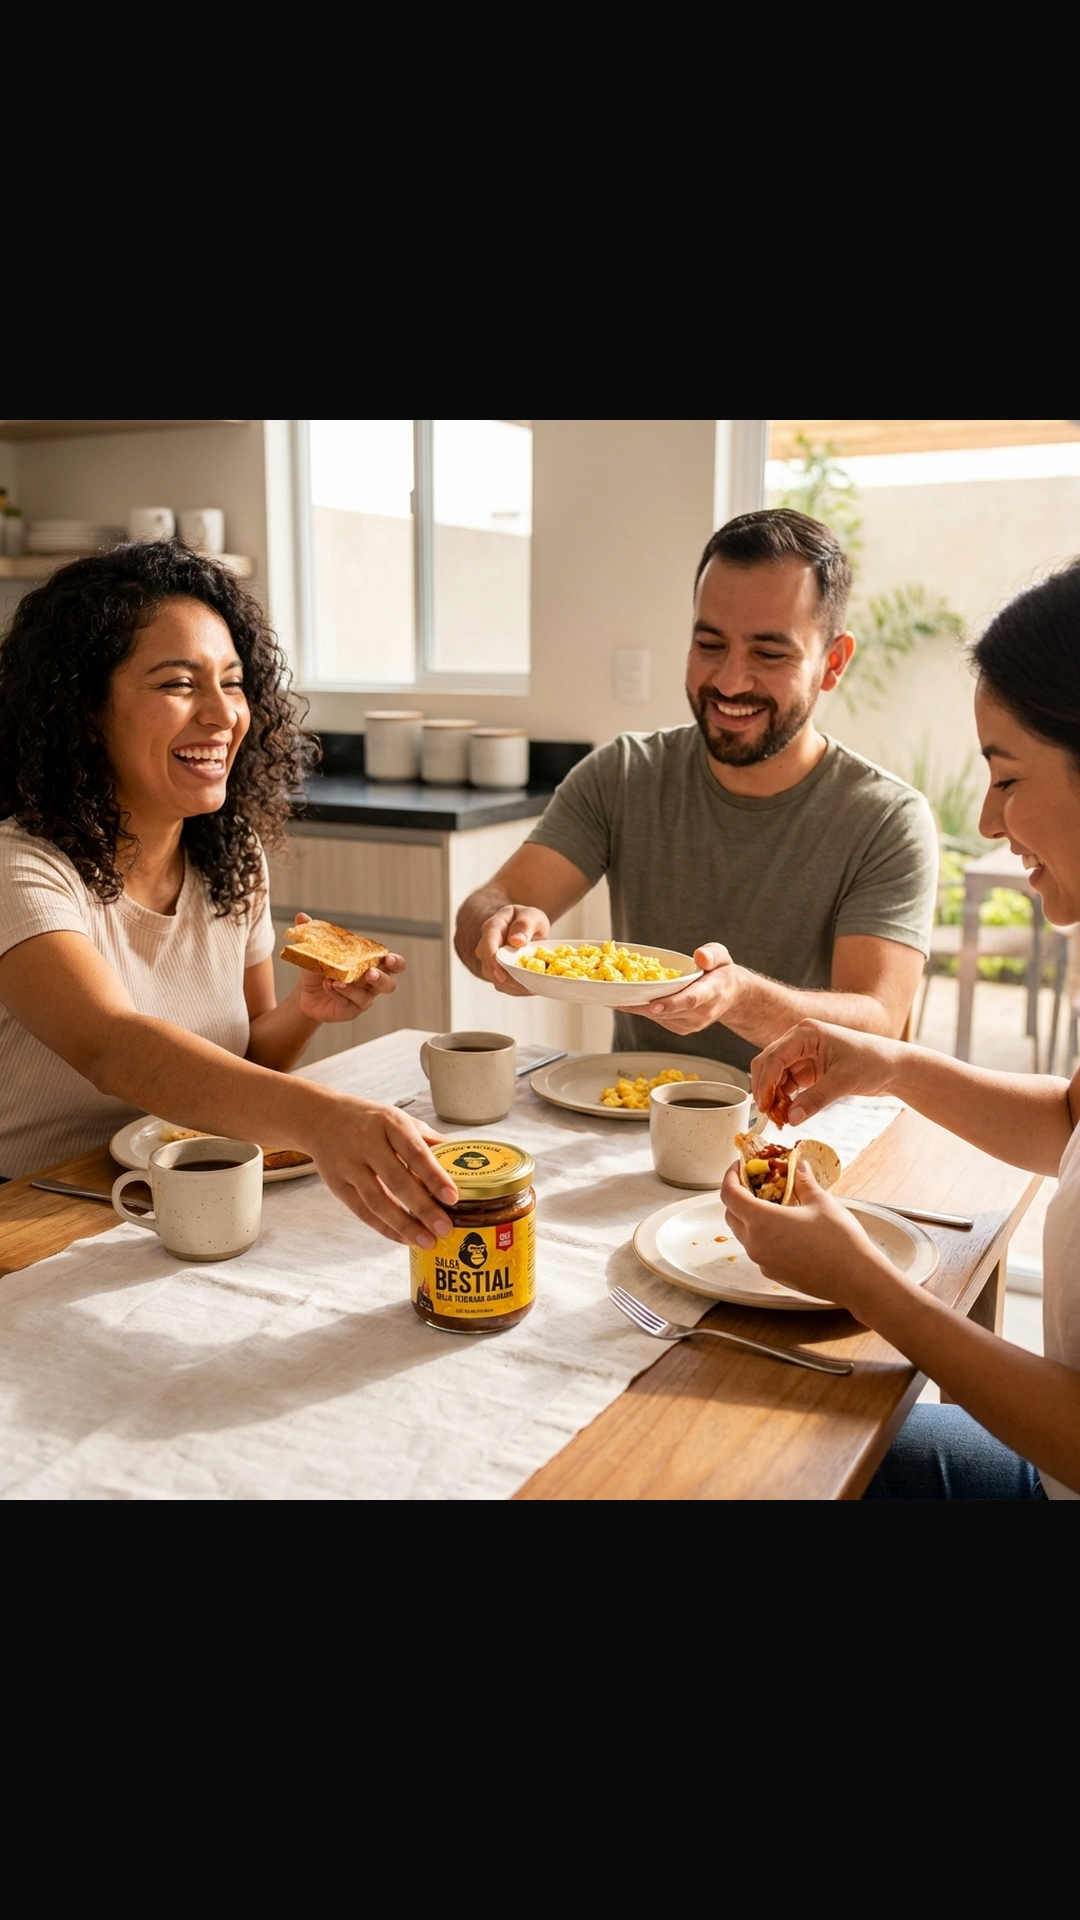
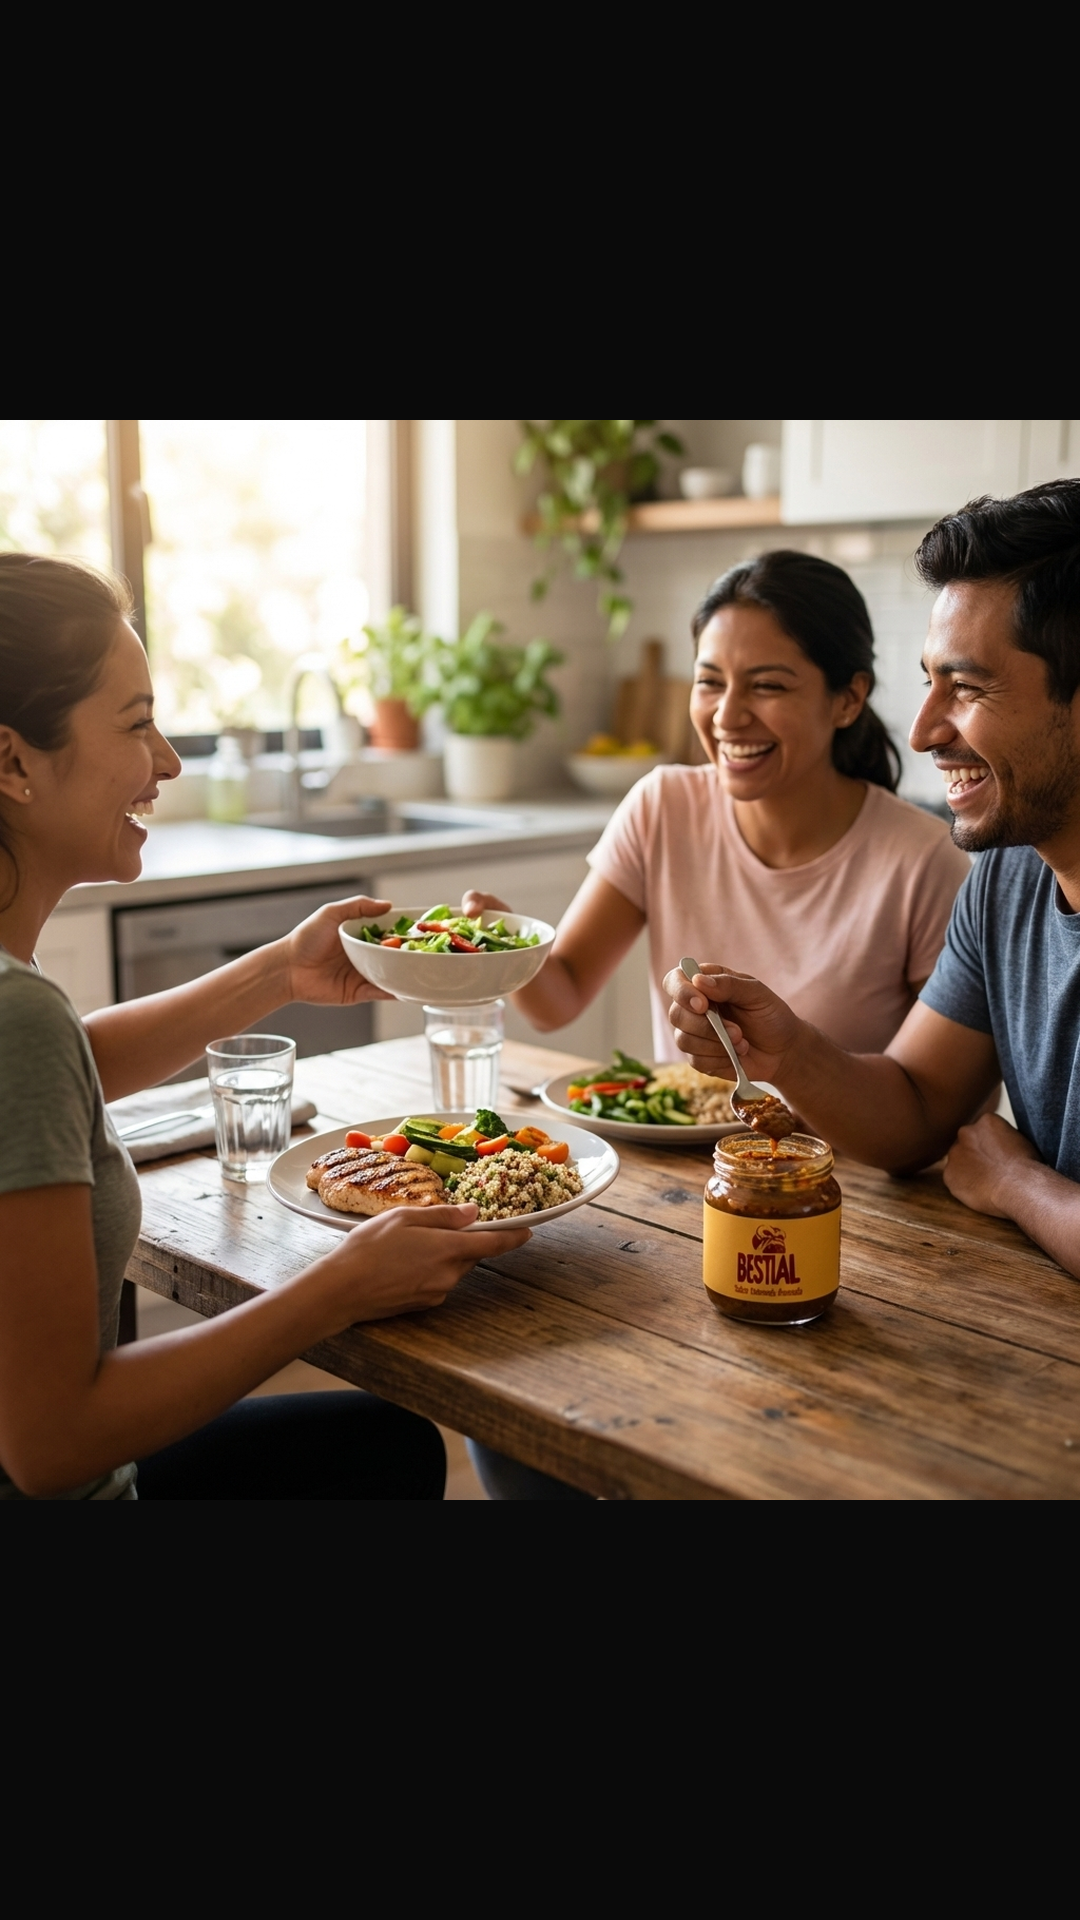
Imagenes correctas 20260409: Post entrenamiento / Healthy
Frasco auténtico generado con 3 referencias (Gemini+referencias).
Mesa: pollo grillado con bowl saludable.
Personas: 3 amigos compartiendo comida saludable en cocina.

diff --git a/Imagenes Instgram/bestial_20260409_mesa.md b/Imagenes Instgram/bestial_20260409_mesa.md
@@ -1,23 +1,21 @@
 # Imagen Instagram - 09/04/2026
 
-**Contexto:** Desayuno / Brunch
-**Contexto ID:** desayuno_brunch
+**Contexto:** Post entrenamiento / Healthy
+**Contexto ID:** post_entrenamiento
 
 ## Caption
 
-Un buen desayuno no necesita mucho... pero si necesita la salsa correcta.
+Comer saludable no tiene por que ser aburrido. Solo necesitas la salsa correcta.
 
-Nuestra Salsa Tatemada esta hecha artesanalmente con habaneros rostizados al fuego. Ese toque ahumado y profundo que convierte unos simples huevos en algo que no vas a olvidar en todo el dia.
+Nuestra Salsa Tatemada esta hecha artesanalmente con habaneros rostizados al fuego. Ese sabor ahumado y profundo que convierte tu bowl post entreno en algo que de verdad quieres repetir, sin culpa y con todo el sabor.
 
-Una vez que la pruebas en tu desayuno, cada mañana sin ella se siente incompleta 🔥
-
-Haz tu pedido ahora y transforma tu mesa desde temprano:
+Dale a tu comida sana el upgrade que merece. Haz tu pedido ahora 🔥
 
 ## Caption Story
 
-Tu desayuno merece sabor de verdad. Salsa Tatemada con habaneros al fuego 🔥
-Pedila ahora y empeza el dia BESTIAL.
+Tu comida fit merece sabor BESTIAL. Salsa Tatemada con habaneros al fuego.
+Pedila ahora 🔥
 
 ## Hashtags
 
-#brunch #desayuno #brunchtime #morningvibes #weekendbrunch #huevos #salsasbestial #salsatatemada #picante #bestial
+#postworkout #saludable #healthyfood #mealprep #fitness #comidasana #salsasbestial #salsatatemada #picante #bestial

diff --git a/Imagenes Instgram/bestial_20260409_personas.md b/Imagenes Instgram/bestial_20260409_personas.md
@@ -1,23 +1,21 @@
 # Imagen Instagram - 09/04/2026
 
-**Contexto:** Desayuno / Brunch
-**Contexto ID:** desayuno_brunch
+**Contexto:** Post entrenamiento / Healthy
+**Contexto ID:** post_entrenamiento
 
 ## Caption
 
-Un buen desayuno no necesita mucho... pero si necesita la salsa correcta.
+Comer saludable no tiene por que ser aburrido. Solo necesitas la salsa correcta.
 
-Nuestra Salsa Tatemada esta hecha artesanalmente con habaneros rostizados al fuego. Ese toque ahumado y profundo que convierte unos simples huevos en algo que no vas a olvidar en todo el dia.
+Nuestra Salsa Tatemada esta hecha artesanalmente con habaneros rostizados al fuego. Ese sabor ahumado y profundo que convierte tu bowl post entreno en algo que de verdad quieres repetir, sin culpa y con todo el sabor.
 
-Una vez que la pruebas en tu desayuno, cada mañana sin ella se siente incompleta 🔥
-
-Haz tu pedido ahora y transforma tu mesa desde temprano:
+Dale a tu comida sana el upgrade que merece. Haz tu pedido ahora 🔥
 
 ## Caption Story
 
-Tu desayuno merece sabor de verdad. Salsa Tatemada con habaneros al fuego 🔥
-Pedila ahora y empeza el dia BESTIAL.
+Tu comida fit merece sabor BESTIAL. Salsa Tatemada con habaneros al fuego.
+Pedila ahora 🔥
 
 ## Hashtags
 
-#brunch #desayuno #brunchtime #morningvibes #weekendbrunch #huevos #salsasbestial #salsatatemada #picante #bestial
+#postworkout #saludable #healthyfood #mealprep #fitness #comidasana #salsasbestial #salsatatemada #picante #bestial
